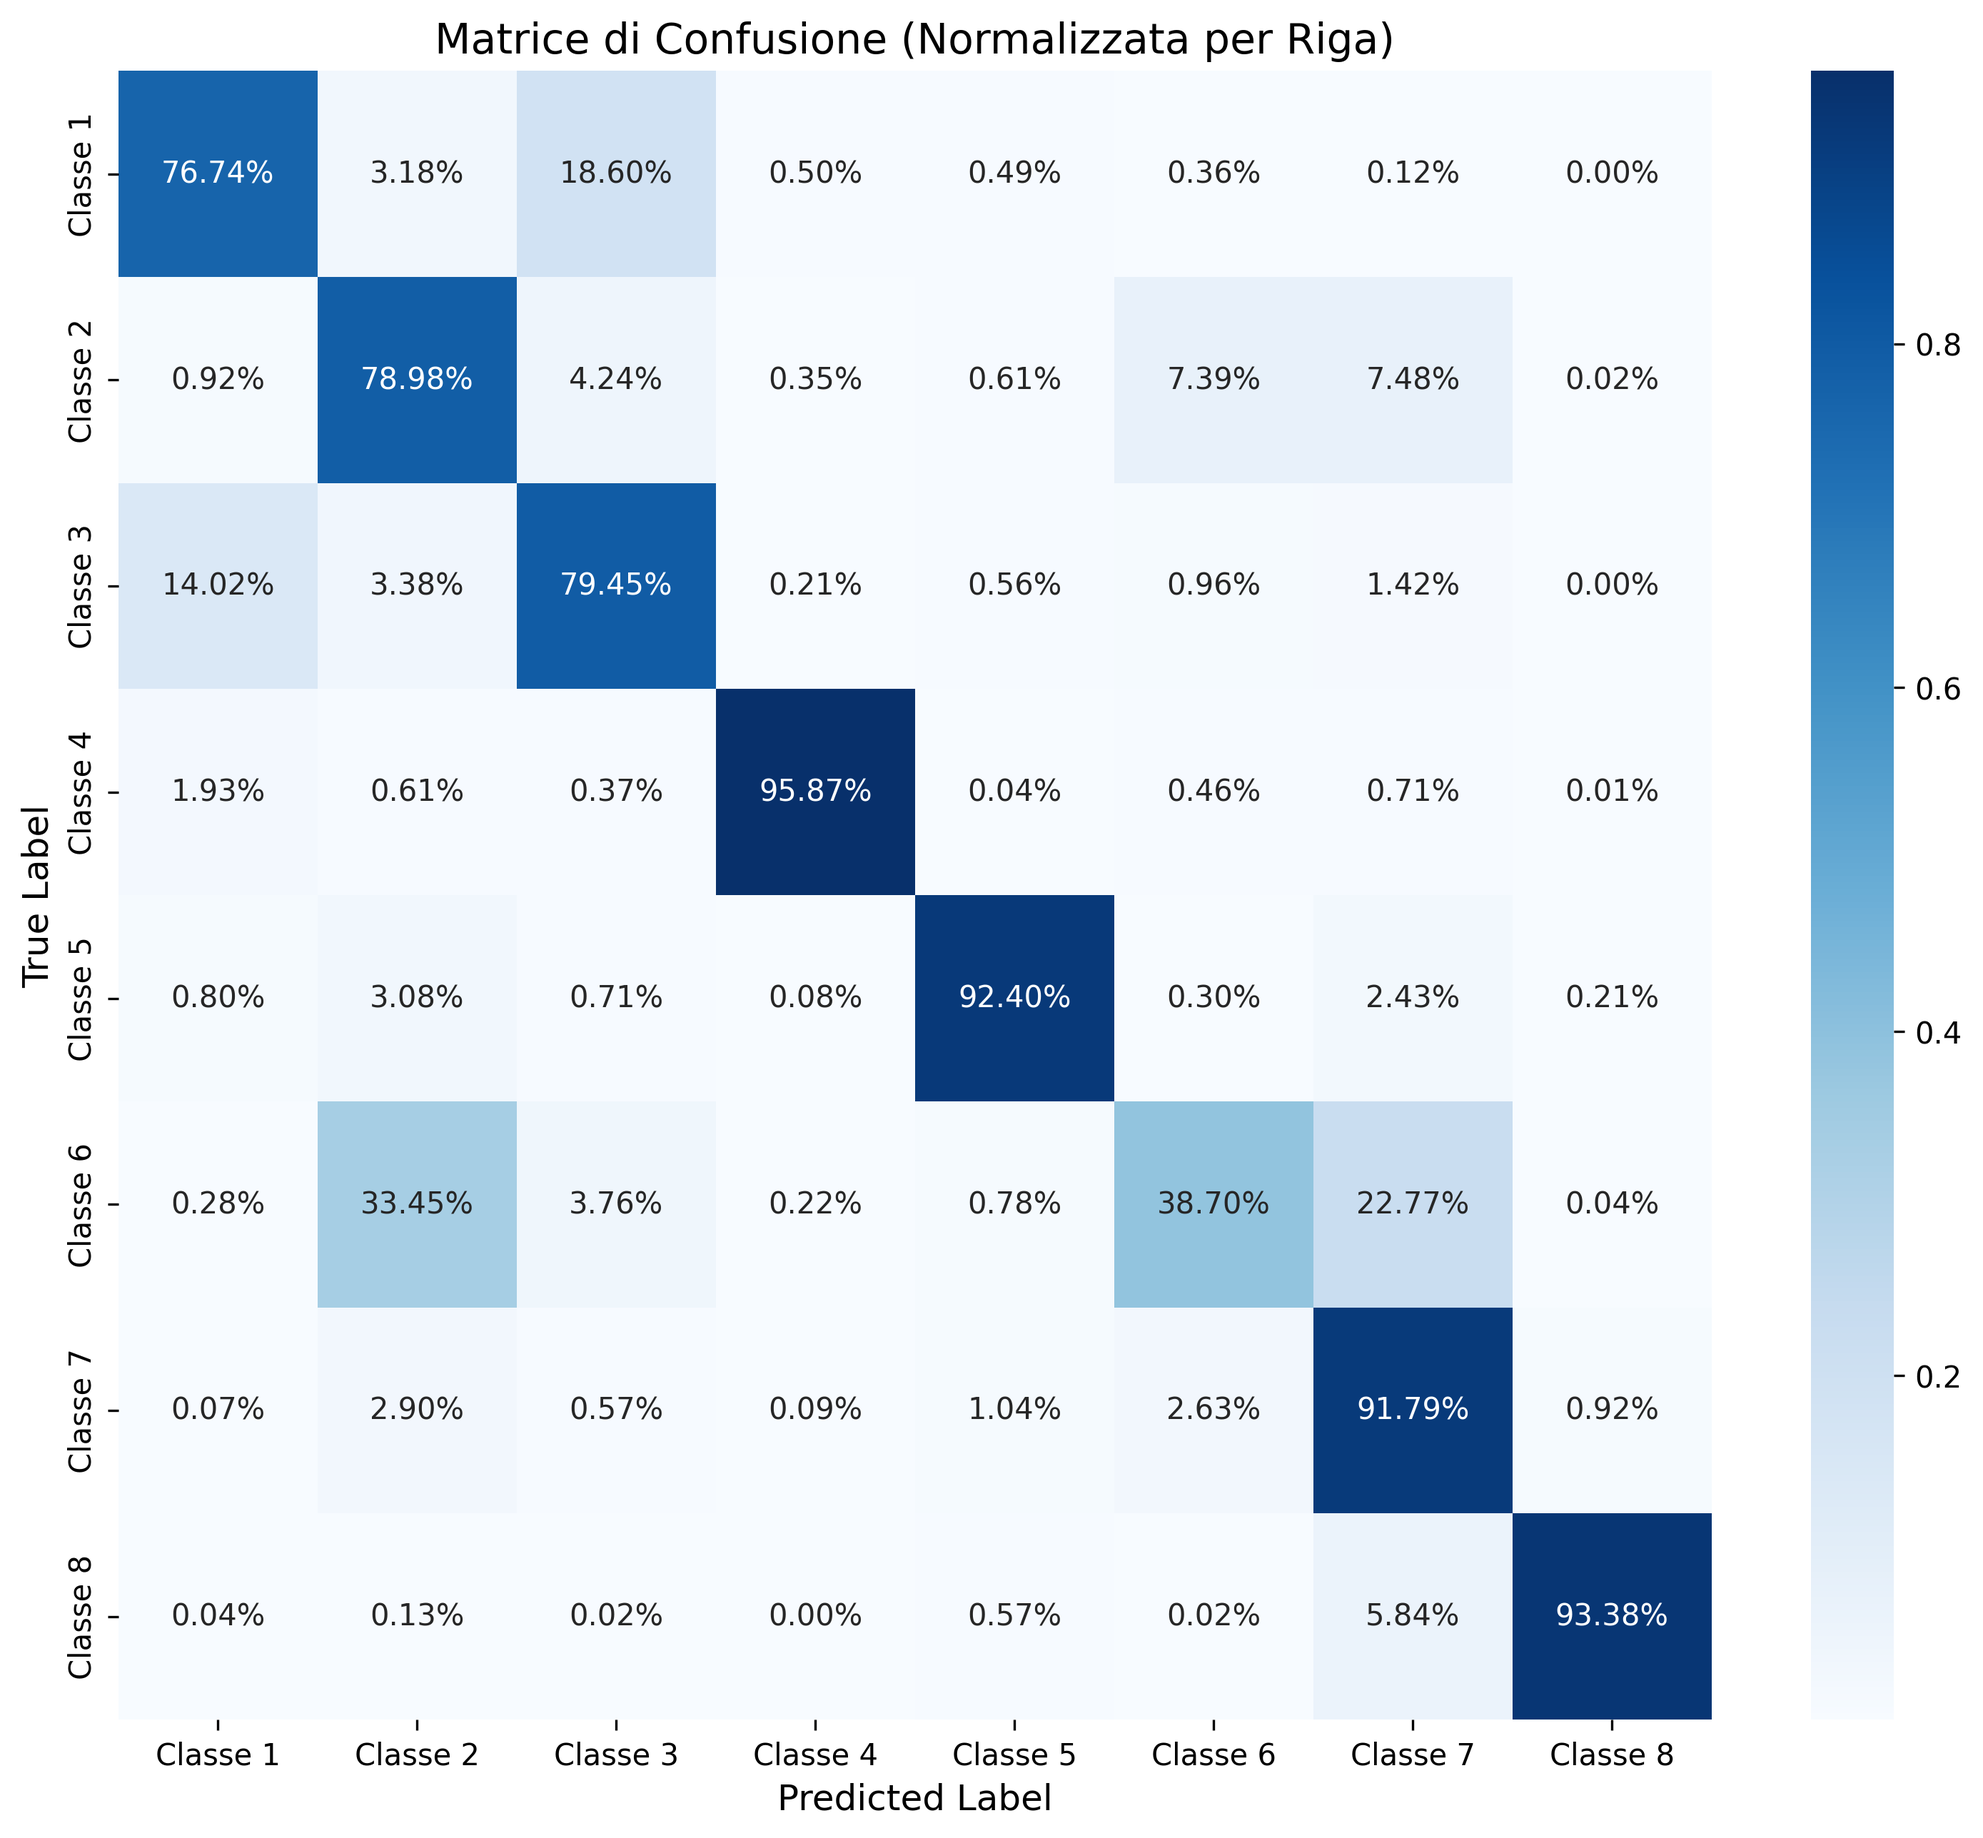
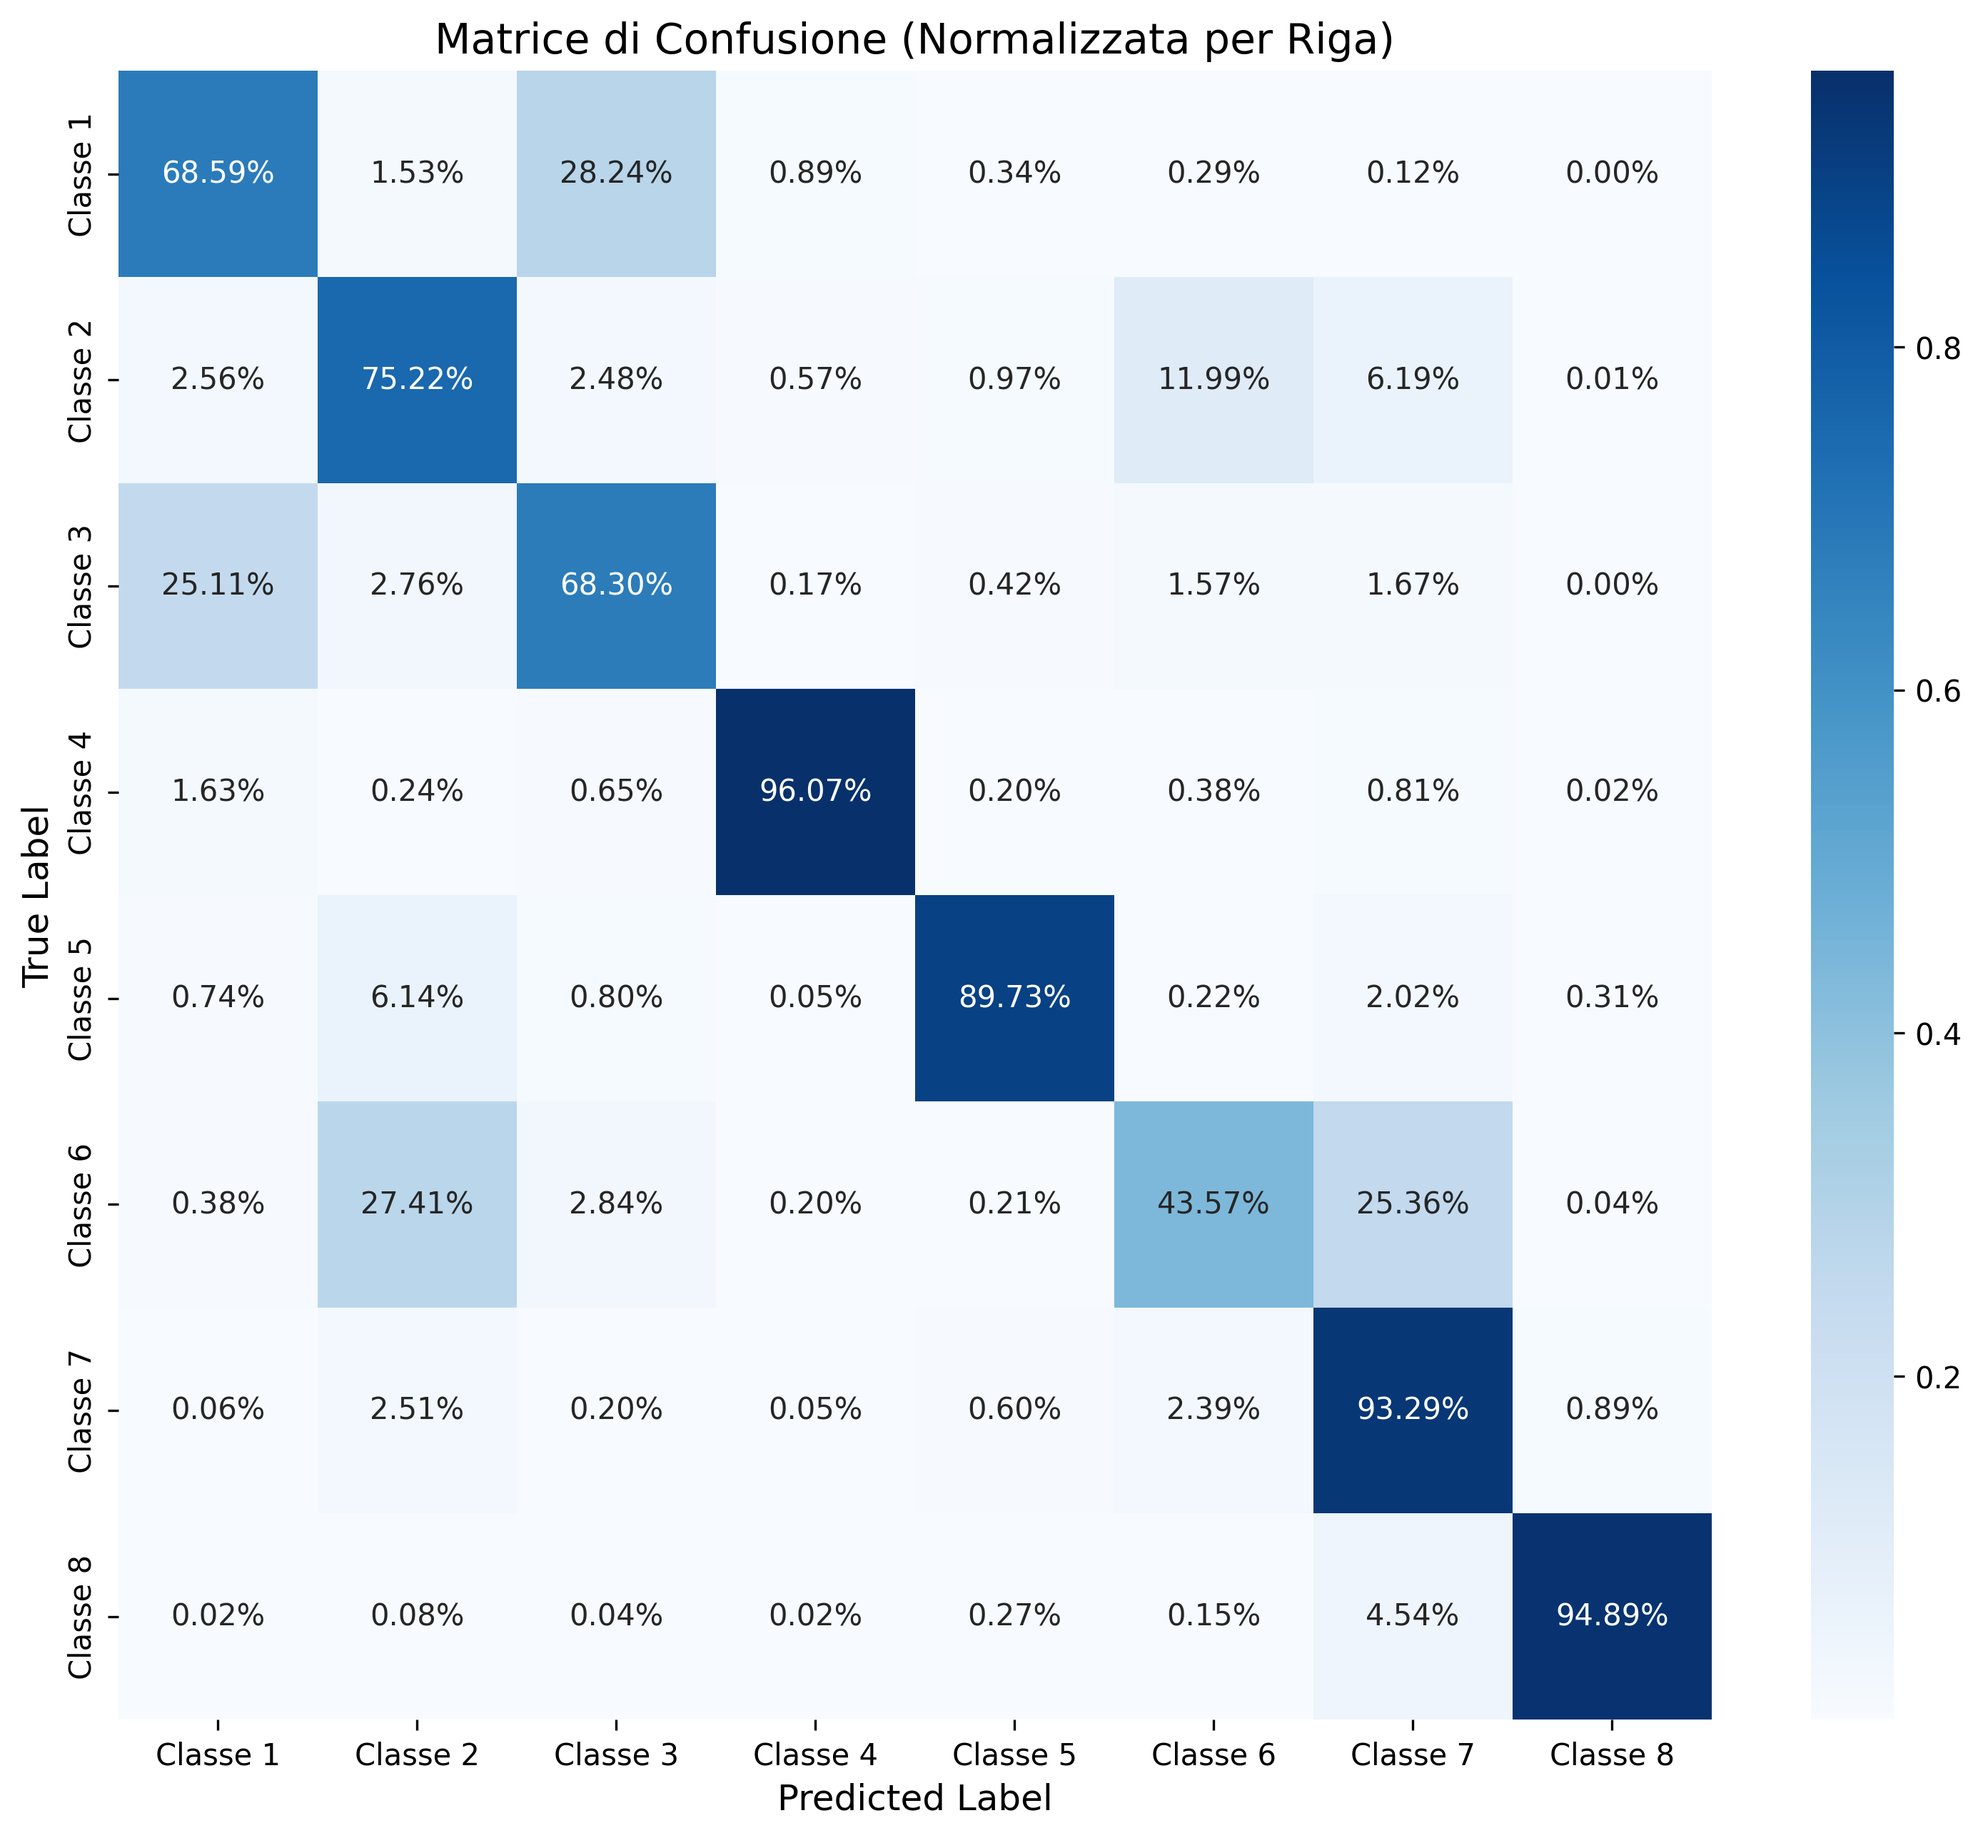
Update training configuration: adjust rare boost factor, encoder version, and batch size

diff --git a/local_execution/Leo/old/7 - All_in_1.py b/local_execution/Leo/old/7 - All_in_1.py
@@ -73,15 +73,15 @@ def get_config() -> Dict[str, Any]:
     config = {
         "DEVICE": torch.device('cuda' if torch.cuda.is_available() else 'cpu'),
         "RANDOM_SEED": 42, "NUM_WORKERS_TRAIN": 5, "NUM_WORKERS_VAL": 2, "USE_AMP": True,
-        "PERSISTENT_WORKERS": True, "RARE_CLASS_INDICES": [4, 6], "RARE_BOOST_FACTOR": 25.0,
+        "PERSISTENT_WORKERS": True, "RARE_CLASS_INDICES": [4, 6], "RARE_BOOST_FACTOR": 35.0,
         
         "DATASET_PATH_TRAIN": os.path.join(base_path, "dataset/training/train"),
         "DATASET_PATH_AUG": os.path.join(base_path, "dataset/training/augmented"),
         "DATASET_PATH_AUG_AGGR": os.path.join(base_path, "dataset/training/augmented_aggressive"),
         "MODEL_SAVE_PATH": os.path.join(base_path, "best_model_b3.pth"),
 
-        "ENCODER": "efficientnet-b5", "ENCODER_WEIGHTS": "imagenet",
-        "PATCH_SIZE": (544, 512), "STRIDE_VAL": (544, 256), "BATCH_SIZE": 3, 
+        "ENCODER": "efficientnet-b4", "ENCODER_WEIGHTS": "imagenet",
+        "PATCH_SIZE": (544, 512), "STRIDE_VAL": (544, 256), "BATCH_SIZE": 4, 
         "NUM_CLASSES": 9, "IGNORE_INDEX": 0, "VALIDATION_SPLIT": 0.2,
 
         "FREEZE_EPOCHS": 7, "UNFREEZE_EPOCHS": 23, "FINE_TUNING_EPOCHS": 10,
@@ -221,6 +221,8 @@ def calculate_mean_std(loader: DataLoader) -> Tuple[np.ndarray, np.ndarray]:
 
 from kornia.constants import DataKey, Resample
 
+
+
 def get_train_transforms_kornia_crop(config, disable=False):
     patch = config["PATCH_SIZE"]
     mean, std = config["MEAN"], config["STD"]
@@ -231,7 +233,7 @@ def get_train_transforms_kornia_crop(config, disable=False):
 
             data_keys=["input", "mask"],
             extra_args={
-                DataKey.MASK: {          # <-- unica chiave, vale per TUTTI gli op
+                DataKey.MASK: {
                     "resample": Resample.NEAREST,
                     "align_corners": False,
                 }
@@ -242,33 +244,33 @@ def get_train_transforms_kornia_crop(config, disable=False):
         return K.AugmentationSequential(
             K.RandomCrop(size=patch, p=1.0),
 
+            # ---------------- luce / colore (range-sensitive, apply first) -------------------
+            K.RandomSolarize(thresholds=(0.9, 1.0), p=0.15),           # colpi di luce
+            K.RandomEqualize(p=0.25),                                  # auto-eq sensor
+
+            # ---------------- luce / colore (less sensitive) -------------------
+            K.RandomBrightness(brightness=(0.8, 1.2), p=0.6),
+            K.ColorJitter(brightness=0.15, contrast=0.15,
+                        saturation=0.12, hue=0.06, p=0.5),
+
             # ---------------- sensore / ottica ----------------
             K.RandomGaussianNoise(mean=0., std=0.02, p=0.35),          # “grana”
             K.RandomMotionBlur(kernel_size=5, angle=15., direction=0.5, p=0.15),
             K.RandomGaussianBlur((3, 5), (0.8, 1.5), p=0.25),          # lieve defocus
-
-            # ---------------- luce / colore -------------------
-            K.RandomBrightness(brightness=(0.8, 1.2), p=0.6),
-            K.ColorJitter(brightness=0.15, contrast=0.15,
-                        saturation=0.12, hue=0.06, p=0.5),
-            K.RandomSolarize(thresholds=(0.9, 1.0), p=0.15),           # colpi di luce
-            K.RandomEqualize(p=0.25),                                  # auto-eq sensor
-
+            
             # ---------------- meteo “povero” -------------------
-            # (senza RandomFog / Shadow, ma proviamo a simulare aria torbida)
-            K.RandomPlasmaBrightness(alpha=(0.05, 0.10), p=0.20),      # foschia leggera
+            K.RandomPlasmaBrightness(intensity=(0.05, 0.10), p=0.20),      # foschia leggera
 
             # ---------------- sporco / pixel dropout ----------
-            K.RandomErasing(scale=(0.01, 0.03), ratio=(0.3, 3.3),
-                            value=mean, p=0.25),
+            K.RandomErasing(p=0.25),
 
-            # ---------- normalizzazione ----------
+            # ---------- normalizzazione (MUST BE LAST) ----------
             K.Normalize(mean=torch.tensor(mean),
                         std=torch.tensor(std)),
 
             data_keys=["input", "mask"],
             extra_args={
-                DataKey.MASK: {          # <-- unica chiave, vale per TUTTI gli op
+                DataKey.MASK: {
                     "resample": Resample.NEAREST,
                     "align_corners": False,
                 }
@@ -286,7 +288,7 @@ def get_train_transforms_kornia_resize(config, disable=False):
 
             data_keys=["input", "mask"],
             extra_args={
-                DataKey.MASK: {          # <-- unica chiave, vale per TUTTI gli op
+                DataKey.MASK: {
                     "resample": Resample.NEAREST,
                     "align_corners": False,
                 }
@@ -297,39 +299,42 @@ def get_train_transforms_kornia_resize(config, disable=False):
         return K.AugmentationSequential(
             K.Resize(patch),
 
+            # ---------------- luce / colore (range-sensitive, apply first) -------------------
+            K.RandomSolarize(thresholds=(0.9, 1.0), p=0.15),           # colpi di luce
+            K.RandomEqualize(p=0.25),                                  # auto-eq sensor
+
+            # ---------------- luce / colore (less sensitive) -------------------
+            K.RandomBrightness(brightness=(0.8, 1.2), p=0.6),
+            K.ColorJitter(brightness=0.15, contrast=0.15,
+                        saturation=0.12, hue=0.06, p=0.5),
+
             # ---------------- sensore / ottica ----------------
             K.RandomGaussianNoise(mean=0., std=0.02, p=0.35),          # “grana”
             K.RandomMotionBlur(kernel_size=5, angle=15., direction=0.5, p=0.15),
             K.RandomGaussianBlur((3, 5), (0.8, 1.5), p=0.25),          # lieve defocus
 
-            # ---------------- luce / colore -------------------
-            K.RandomBrightness(brightness=(0.8, 1.2), p=0.6),
-            K.ColorJitter(brightness=0.15, contrast=0.15,
-                        saturation=0.12, hue=0.06, p=0.5),
-            K.RandomSolarize(thresholds=(0.9, 1.0), p=0.15),           # colpi di luce
-            K.RandomEqualize(p=0.25),                                  # auto-eq sensor
-
             # ---------------- meteo “povero” -------------------
-            # (senza RandomFog / Shadow, ma proviamo a simulare aria torbida)
-            K.RandomPlasmaBrightness(alpha=(0.05, 0.10), p=0.20),      # foschia leggera
+            K.RandomPlasmaBrightness(intensity=(0.05, 0.10), p=0.20),      # foschia leggera
 
             # ---------------- sporco / pixel dropout ----------
-            K.RandomErasing(scale=(0.01, 0.03), ratio=(0.3, 3.3),
-                            value=mean, p=0.25),
+            K.RandomErasing(p=0.25),
 
-            # ---------- normalizzazione ----------
+            # ---------- normalizzazione (MUST BE LAST) ----------
             K.Normalize(mean=torch.tensor(mean),
                         std=torch.tensor(std)),
 
             data_keys=["input", "mask"],
             extra_args={
-                DataKey.MASK: {          # <-- unica chiave, vale per TUTTI gli op
+                DataKey.MASK: {
                     "resample": Resample.NEAREST,
                     "align_corners": False,
                 }
             },
             same_on_batch=False,
         )
+
+
+
 
 def get_val_transforms_kornia_crop(config: Dict[str, Any]) -> torch.nn.Sequential:
     patch = config["PATCH_SIZE"]
@@ -342,6 +347,8 @@ def get_val_transforms_kornia_crop(config: Dict[str, Any]) -> torch.nn.Sequentia
         data_keys=['input', 'mask'],
         extra_args={DataKey.MASK: {"resample": Resample.NEAREST}},
     )
+
+
 
 def get_val_transforms_kornia_resize(config: Dict[str, Any]) -> torch.nn.Sequential:
     patch = config["PATCH_SIZE"]
@@ -1041,6 +1048,7 @@ def main():
     #         return 0.8 * criterion_ft(pred, target) + 0.2 * criterion_wce(pred, target)
     # #########################################################
 
+    boundary_loss = ABL(nclass=config["NUM_CLASSES"], ignore_label=config["IGNORE_INDEX"]).to(device)
     penalty_pairs = [(1, 3), (2, 6)] 
     criterion_penalty = HardPairPenaltyLoss(penalty_pairs, penalty_factor=2.5).to(device)
     def combined_loss(pred, target, feats=None, epoch=None):
@@ -1061,7 +1069,7 @@ def main():
             model=model, loader=train_loader, optimizer=optimizer, scheduler=None, loss_function=combined_loss, 
             scaler=scaler, device=device, use_amp=use_amp, current_epoch=epoch, total_epochs=config["UNFREEZE_EPOCHS"]
         )
-        val_loss, val_miou, val_iou_per_class, val_conf_matrix = evaluate(model, val_loader, combined_loss, device, config)
+        val_loss, val_miou, val_iou_per_class, val_conf_matrix = evaluate(model, val_loader, combined_loss, device, config, current_epoch=epoch)
         scheduler.step(val_miou)
         tqdm.write(f"Risultati Epoch {global_epoch}: Train Loss: {train_loss:.4f} | Val Loss: {val_loss:.4f} | Val mIoU: {val_miou:.4f}")
         for i, iou in enumerate(val_iou_per_class):
@@ -1104,7 +1112,7 @@ def main():
     #             loss_bnd)
     #############################################################################
 
-    boundary_loss = ABL(nclass=config["NUM_CLASSES"], ignore_label=config["IGNORE_INDEX"]).to(device)
+    
     def combined_loss(pred, target, feats=None, epoch=None):
         lam = min(0.5, epoch * 0.1)
         loss_bnd = lam * boundary_loss(pred, target)
@@ -1153,9 +1161,9 @@ def main():
     train_dataset_full = SegmentationDataset(train_dirs, norm_transf, config)
     val_dataset_full   = SegmentationDataset(val_dirs,   norm_transf, config)
 
-    train_loader = DataLoader(train_dataset_full, batch_size=1, shuffle=True,
+    train_loader = DataLoader(train_dataset_full, batch_size=2, shuffle=True,
                             num_workers=2, pin_memory=True)
-    val_loader   = DataLoader(val_dataset_full,   batch_size=1, shuffle=False,
+    val_loader   = DataLoader(val_dataset_full,   batch_size=2, shuffle=False,
                             num_workers=2, pin_memory=True)
 
     full_img_optimizer = optim.AdamW(model.parameters(), lr=5e-6)
